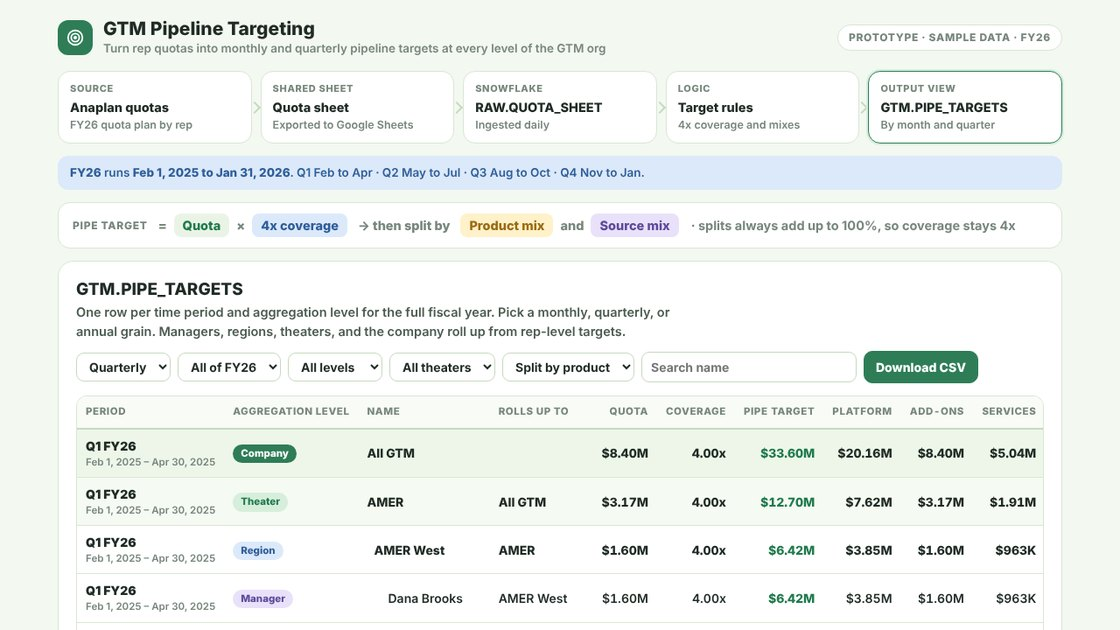
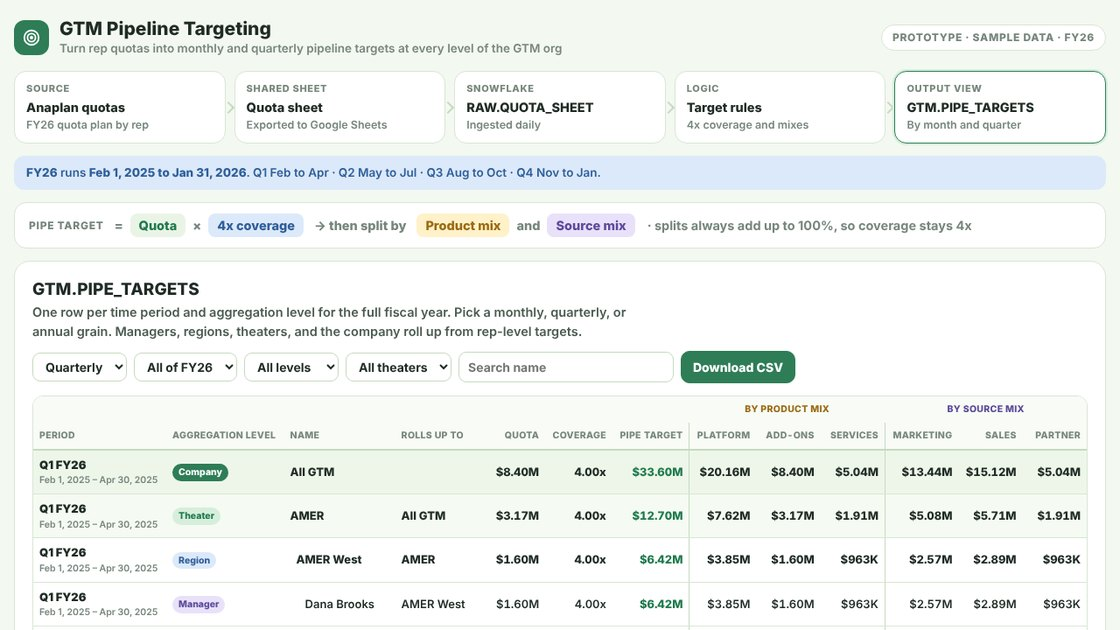
GTM Pipeline Targeting: always show product and source splits
Replaces the Split by dropdown with grouped By product mix / By source mix
columns and tightens the table so all 13 columns fit without scrolling.

Claude-Session: https://claude.ai/code/session_012KZoca3tAZxyi3oCaJbwMw

diff --git a/pipeline-targets.html b/pipeline-targets.html
@@ -82,6 +82,16 @@ tr.l-region td{font-weight:800}
 .agrid{display:grid;grid-template-columns:repeat(4,minmax(0,1fr));gap:14px}
 .inrow input{width:72px!important}
 tr.pstart td{border-top:2px solid var(--line-2)}
+#v-output table{font-size:13px}
+#v-output th,#v-output td{padding:7px 7px}
+#v-output td .dt{font-size:10.5px}
+#v-output th{font-size:10.5px;letter-spacing:.03em}
+#v-output .lv{font-size:10.5px;padding:2px 7px}
+#v-output .ind1{padding-left:14px} #v-output .ind2{padding-left:24px} #v-output .ind3{padding-left:34px}
+.app{max-width:1320px}
+tr.grp th{background:#F8FBF6;border-bottom:0;padding-bottom:0;text-align:center}
+th.gp{color:var(--warn)!important} th.gs{color:var(--lav-ink)!important}
+th.sep,td.sep{border-left:1px solid var(--line-2)}
 tr.gt td{background:var(--accent-2);color:#fff;font-weight:800;border-top:2px solid var(--accent);border-bottom:0;position:sticky;bottom:0}
 tr.gt td .dt{color:#D7EEDC}
 td .dt{display:block;font-size:11.5px;color:var(--ink-3);font-weight:600}
@@ -149,7 +159,6 @@ table.ph{font-size:13px;width:100%} table.ph th,table.ph td{padding:5px 6px} tab
         <select class="inline" id="fPeriod" aria-label="Period"></select>
         <select class="inline" id="fLevel" aria-label="Aggregation level"><option value="">All levels</option><option value="company">Company</option><option value="theater">Theater</option><option value="region">Region</option><option value="manager">Manager</option><option value="rep">Rep</option></select>
         <select class="inline" id="fTheater" aria-label="Theater"><option value="">All theaters</option><option>AMER</option><option>EMEA</option><option>APAC</option></select>
-        <select class="inline" id="fSplit" aria-label="Split pipe target by"><option value="product">Split by product</option><option value="source">Split by source</option></select>
         <input class="search" id="fSearch" type="search" placeholder="Search name" aria-label="Search name">
         <button class="btn primary" id="csv">Download CSV</button>
       </div>
@@ -280,8 +289,9 @@ function fillPeriods(){
 function renderOutput(){
   const g = $('#fGrain').value, pid = $('#fPeriod').value, lv = $('#fLevel').value, th = $('#fTheater').value, q = $('#fSearch').value.trim().toLowerCase();
   const all = buildRows(g);
-  const cols = SPLIT[$('#fSplit').value];
-  $('#outHead').innerHTML = `<tr><th>Period</th><th>Aggregation level</th><th>Name</th><th>Rolls up to</th><th class="num">Quota</th><th class="num">Coverage</th><th class="num">Pipe target</th>${cols.map(c=>`<th class="num">${c}</th>`).join('')}</tr>`;
+  const cols = SPLIT_KEYS;
+  $('#outHead').innerHTML = `<tr class="grp"><th colspan="7"></th><th colspan="3" class="gp">By product mix</th><th colspan="3" class="gs">By source mix</th></tr>
+    <tr><th>Period</th><th>Aggregation level</th><th>Name</th><th>Rolls up to</th><th class="num">Quota</th><th class="num">Coverage</th><th class="num">Pipe target</th>${PRODUCTS.map((c,i)=>`<th class="num${i===0?' sep':''}">${c}</th>`).join('')}${SOURCES.map((c,i)=>`<th class="num${i===0?' sep':''}">${c === 'Sales' ? 'Sales' : c}</th>`).join('')}</tr>`;
   const rows = all.filter(r => (!pid || r.pid===pid) && (!lv || r.level===lv) && (!th || r.theater===th) && (!q || r.name.toLowerCase().includes(q)));
   const flat = !!lv || !!q;
   let last = null;
@@ -293,15 +303,15 @@ function renderOutput(){
     <td class="${flat?'':IND[r.level]}">${esc(r.name)}</td>
     <td>${esc(r.parent)}</td>
     <td class="num">${money(r.quota)}</td><td class="num">${r.cov.toFixed(2)}x</td><td class="num tgt">${money(r.total)}</td>
-    ${cols.map(p=>`<td class="num">${money(r.by[p])}</td>`).join('')}</tr>`;
-  }).join('') || '<tr><td colspan="10" style="color:var(--ink-3)">No rows match these filters.</td></tr>';
+    ${cols.map((p,i)=>`<td class="num${i%3===0?' sep':''}">${money(r.by[p])}</td>`).join('')}</tr>`;
+  }).join('') || '<tr><td colspan="13" style="color:var(--ink-3)">No rows match these filters.</td></tr>';
   // grand total: rep-level rows for the selected periods and theater, so no level is counted twice
   const base = all.filter(r => r.level==='rep' && (g!=='all' || r.grain==='Annual') && (!pid || r.pid===pid) && (!th || r.theater===th));
   const gt = {quota:0, total:0, by:{}}; SPLIT_KEYS.forEach(p=>gt.by[p]=0);
   base.forEach(r => { gt.quota+=r.quota; gt.total+=r.total; SPLIT_KEYS.forEach(p=>gt.by[p]+=r.by[p]); });
   const scope = (pid ? periods(g).find(x=>x.id===pid).label : (g==='all' ? 'FY26' : 'All of FY26')) + ' · ' + (th || 'All theaters');
   $('#outFoot').innerHTML = `<tr class="gt"><td colspan="4"><b>Grand total</b><span class="dt">${scope}${g==='all'&&!pid?' · counted once at the annual grain':''}</span></td>
-    <td class="num">${money(gt.quota)}</td><td class="num">${gt.quota? (gt.total/gt.quota).toFixed(2):'0.00'}x</td><td class="num">${money(gt.total)}</td>${cols.map(p=>`<td class="num">${money(gt.by[p])}</td>`).join('')}</tr>`;
+    <td class="num">${money(gt.quota)}</td><td class="num">${gt.quota? (gt.total/gt.quota).toFixed(2):'0.00'}x</td><td class="num">${money(gt.total)}</td>${cols.map((p,i)=>`<td class="num${i%3===0?' sep':''}">${money(gt.by[p])}</td>`).join('')}</tr>`;
   const fy = buildRows('year')[0], np = periods(g).length;
   $('#outMeta').innerHTML = `<span>${g==='all'?'All grains (annual, quarterly, monthly)':GRAIN_LBL[g]+' grain'}: ${np} period${np>1?'s':''} × 34 rows = ${all.length} rows (showing ${rows.length})</span><span>FY26 company pipe target <b style="color:var(--ink)">${money(fy.total)}</b> on ${money(fy.quota)} quota</span><span>Coverage ${A.cov.Coverage.toFixed(1)}x at every level</span>`;
   window._rows = rows;
@@ -384,7 +394,7 @@ function show(v){
 document.querySelectorAll('.step').forEach(s => s.onclick = () => { if (s.dataset.v!=='none') show(s.dataset.v); });
 document.querySelectorAll('[data-go]').forEach(b => b.onclick = () => { show(b.dataset.go); window.scrollTo({top:0, behavior:'smooth'}); });
 $('#fGrain').onchange = () => { $('#fPeriod').value=''; fillPeriods(); renderOutput(); };
-['fPeriod','fLevel','fTheater','fSplit'].forEach(id => $('#'+id).onchange = renderOutput);
+['fPeriod','fLevel','fTheater'].forEach(id => $('#'+id).onchange = renderOutput);
 $('#fSearch').oninput = renderOutput;
 $('#reset').onclick = () => { A = JSON.parse(JSON.stringify(DEFAULTS)); renderAssume(); renderSql(); toast('Target rules reset'); };
 $('#csv').onclick = () => {
